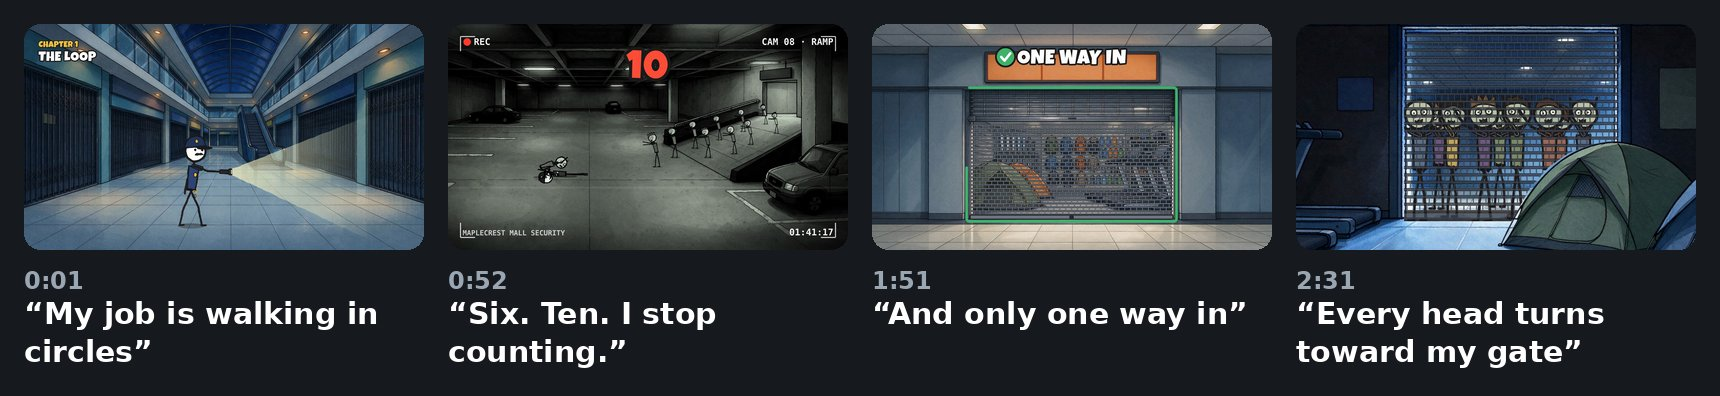
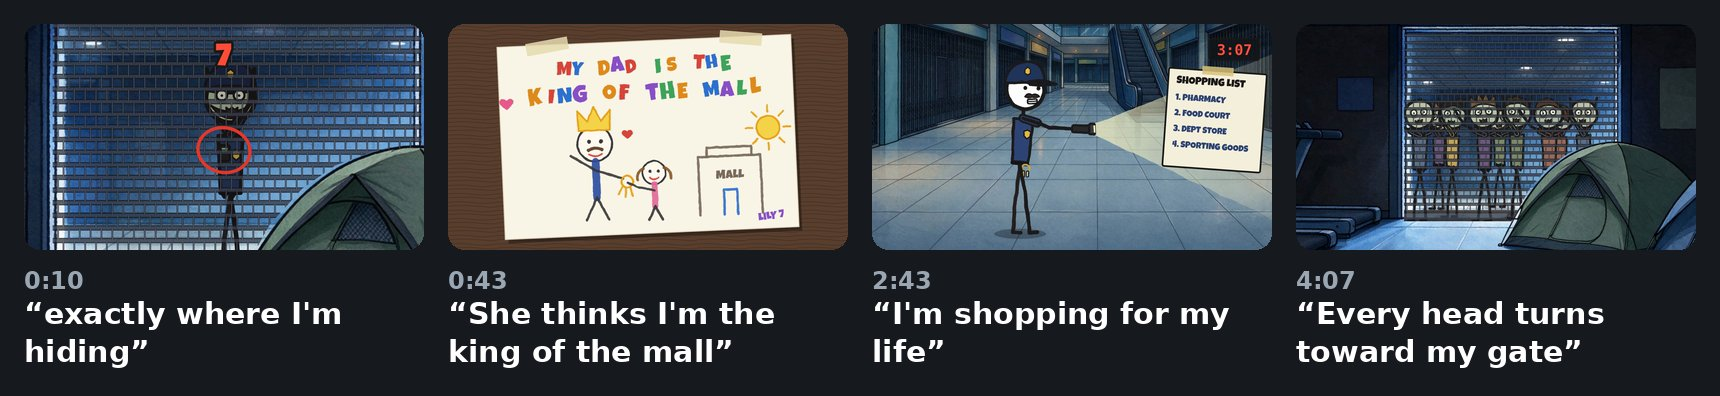
Mall pilot v2 storyboard from the final render
The v2 render checks out: 1920x1080, 30 fps, 8021 frames, 4:27, AAC stereo,
-15.0 LUFS integrated with a -1.5 dBFS true peak after finish.sh.

Claude-Session: https://claude.ai/code/session_01L5ympxsUwkNVD2DNao6gpG

diff --git a/README.md b/README.md
@@ -67,7 +67,7 @@ The pigeon is a puppet. Its head, neck and body are cut from one AI picture, and
 
 ## Long-form pilot: The Night Guard Had Every Key
 
-![Four frames from the mall pilot: the night guard walking the empty mall with his flashlight; a security camera showing a crowd coming up the garage ramp; the sporting goods store behind its steel gate with "ONE WAY IN"; zombie faces pressed against the gate](docs/mall-storyboard.jpg)
+![Four frames from the mall pilot v2: dead Marcus behind the gate with a red ring round his radio and a countdown; Lily's crayon drawing "MY DAD IS THE KING OF THE MALL"; Danny with his flashlight and a shopping list while a countdown runs; zombie faces pressed against the gate](docs/mall-storyboard.jpg)
 
 This is a test of a second format: a long stick-figure survival story told in still pictures, like the "30 days locked inside…" videos. A new picture lands every 2–3 seconds, cut on the exact word, under a first-person voice-over. The pilot is the 4½-minute opening of a longer episode, in 16:9 at 1080p.
 
